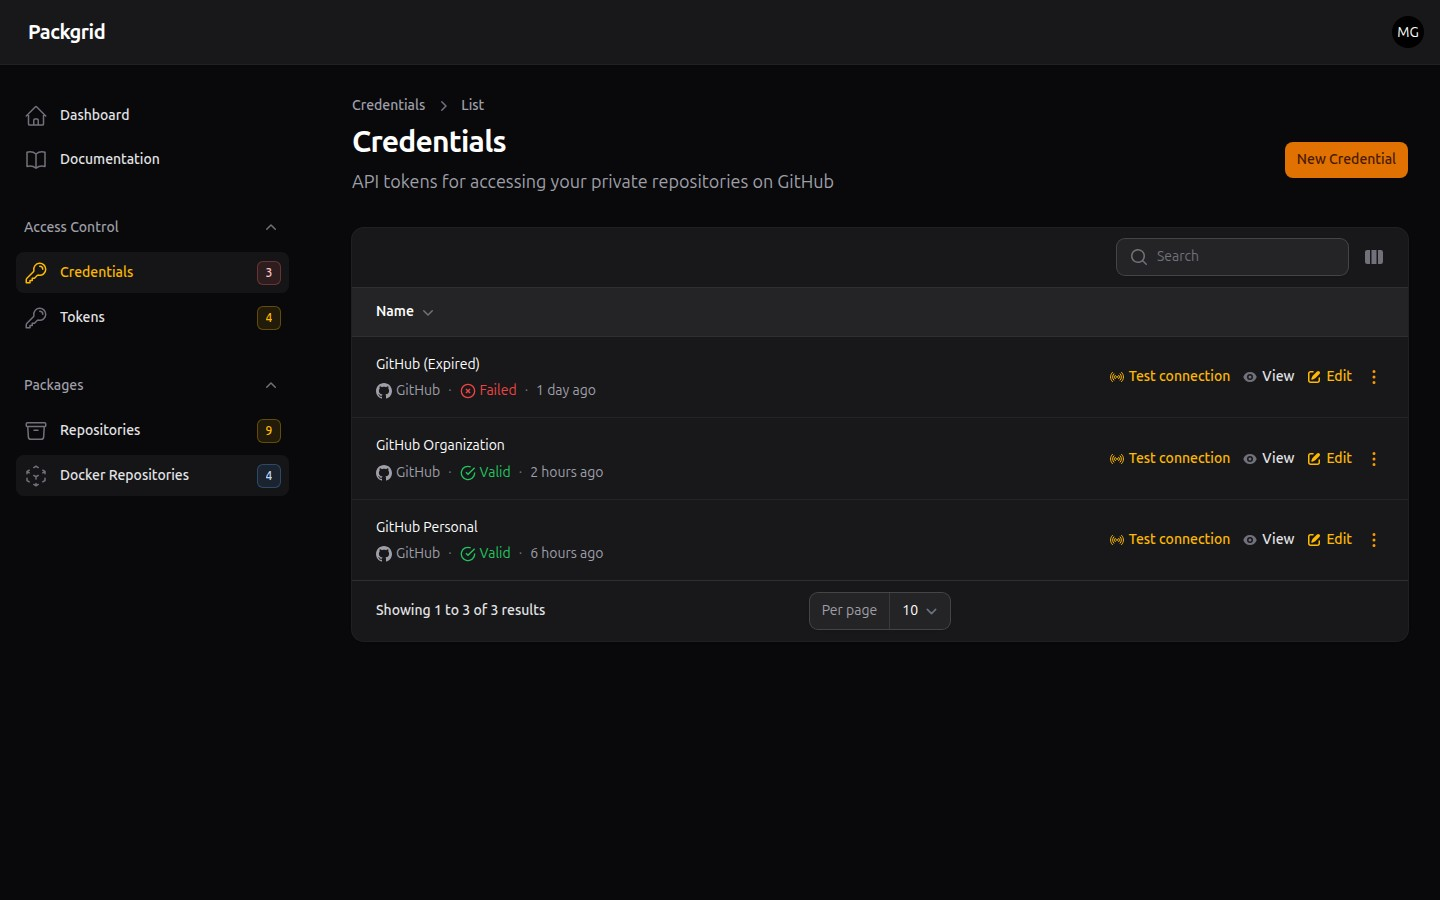
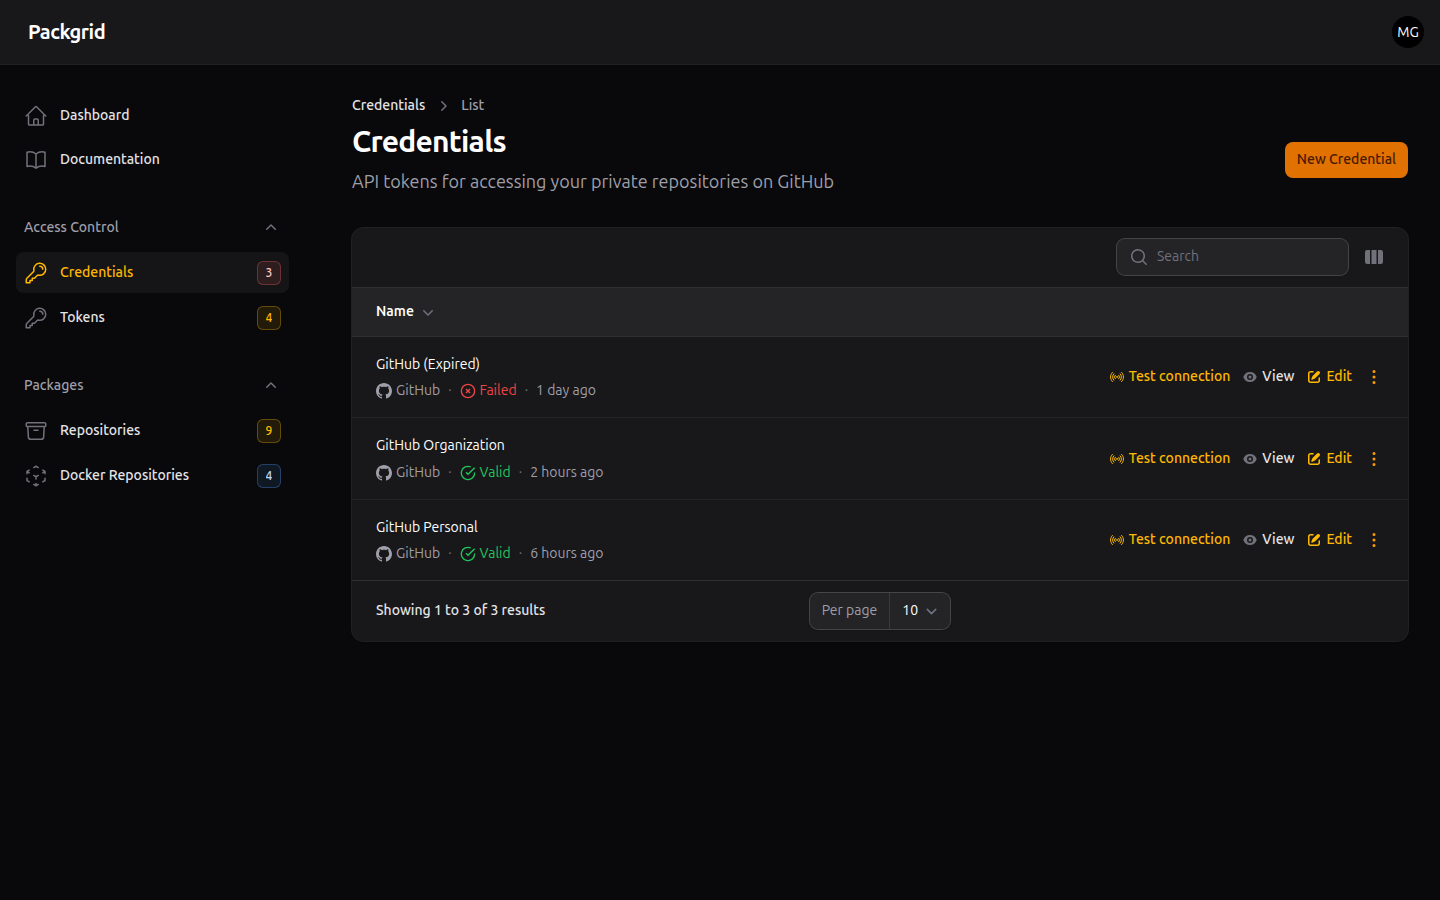
docs: update dark mode screenshots, add Docker registry comparison, fix translation
- Retake all screenshots in Filament dark mode with seeded data
- Add Docker (OCI) Private Registries comparison table to README
- Fix docker_repos_desc translation to use correct :tags/:storage params
- Update copyright year to 2025

diff --git a/README.md b/README.md
@@ -676,6 +676,26 @@ Or via CLI flags:
 
 **Packgrid's advantage:** If you already use Packgrid for Composer packages, adding npm support requires zero additional setup. You get a unified registry for both PHP and JavaScript packages with the same token management and GitHub integration.
 
+### Docker (OCI) Private Registries
+
+| Feature | Packgrid | Docker Hub | Harbor | GitLab Container Registry |
+|---------|----------|------------|--------|---------------------------|
+| Hosting | Self-hosted | Cloud | Self-hosted | Both |
+| Cost | Free | Free tier + Paid | Free | Free tier + Paid |
+| Open Source | Yes | No | Yes | Partial |
+| Composer/NPM Support | Yes | No | No | No |
+| OCI Distribution v2 | Yes | Yes | Yes | Yes |
+| Web Admin Panel | Yes | Yes | Yes | Yes |
+| Garbage Collection | Yes | Automatic | Yes | Yes |
+| Image Scanning | No | Paid | Yes (Trivy) | Yes |
+| Replication | No | Paid | Yes | Yes |
+| Webhooks | No | Yes | Yes | Yes |
+| Storage Backend | Local / S3 | Managed | S3 / GCS / Azure | Managed / S3 |
+| Token Management | Unified with Composer/NPM | Separate | Separate | Separate |
+| Setup Complexity | Simple | Managed | Moderate | Managed |
+
+**Packgrid's advantage:** One server, one set of tokens for Composer, NPM, and Docker. If you already use Packgrid for PHP or JavaScript packages, adding a private Docker registry requires no extra infrastructure. For teams that don't need image scanning or replication, Packgrid covers the essentials with minimal setup.
+
 ## Contributing
 
 Contributions are welcome! Please follow these guidelines:
@@ -822,7 +842,7 @@ This project is licensed under the MIT License - see the [LICENSE](LICENSE) file
 ```
 MIT License
 
-Copyright (c) 2024 Packgrid Contributors
+Copyright (c) 2025 Packgrid Contributors
 
 Permission is hereby granted, free of charge, to any person obtaining a copy
 of this software and associated documentation files (the "Software"), to deal
